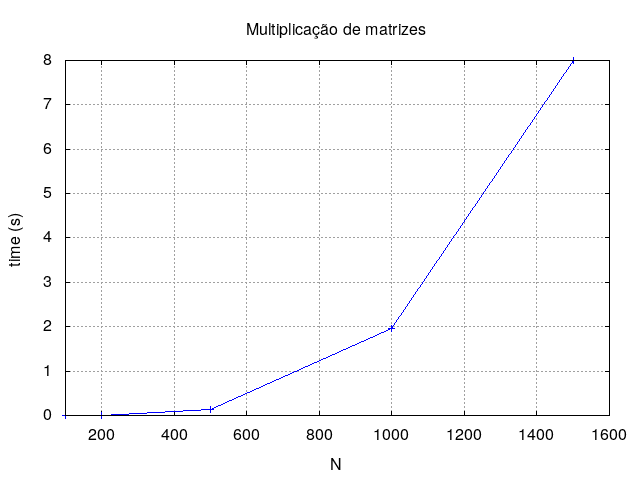
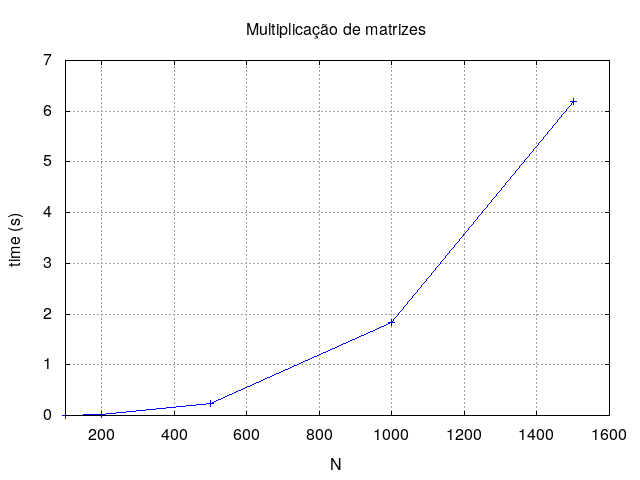
.

diff --git a/part3.cpp b/part3.cpp
@@ -49,8 +49,8 @@ int main(int argc, char *argv[]) {
 
      create_random_matrix(N, A, B);
 
-     std::cout << "\n\nValores da matrix A: " << '\n';
-     show_matrix(N, A);
+     // std::cout << "\n\nValores da matrix A: " << '\n';
+     // show_matrix(N, A);
 
      // std::cout << "\n\nValores da matrix B: " << '\n';
      // show_matrix(N, B);
@@ -93,7 +93,7 @@ void create_random_matrix(int N, double **A, double **B){
   }
 }
 
-// TODO: Don't know if I made that rigth, probably not
+// TODO: Don't know if I made that rigth, probably not ! It´s wrong
 int matrix_product(int N, double **A, double **B, double **C)
 {
   double soma;
@@ -101,7 +101,7 @@ int matrix_product(int N, double **A, double **B, double **C)
    for (int k = 0; k < N; k++){
      soma = 0;
       for (int j = 0; j < N; j++){
-          soma += A[i][j] * B[j][k];
+          soma += A[i][k] * B[k][j];
       }
       C[i][k] = soma;
     }
